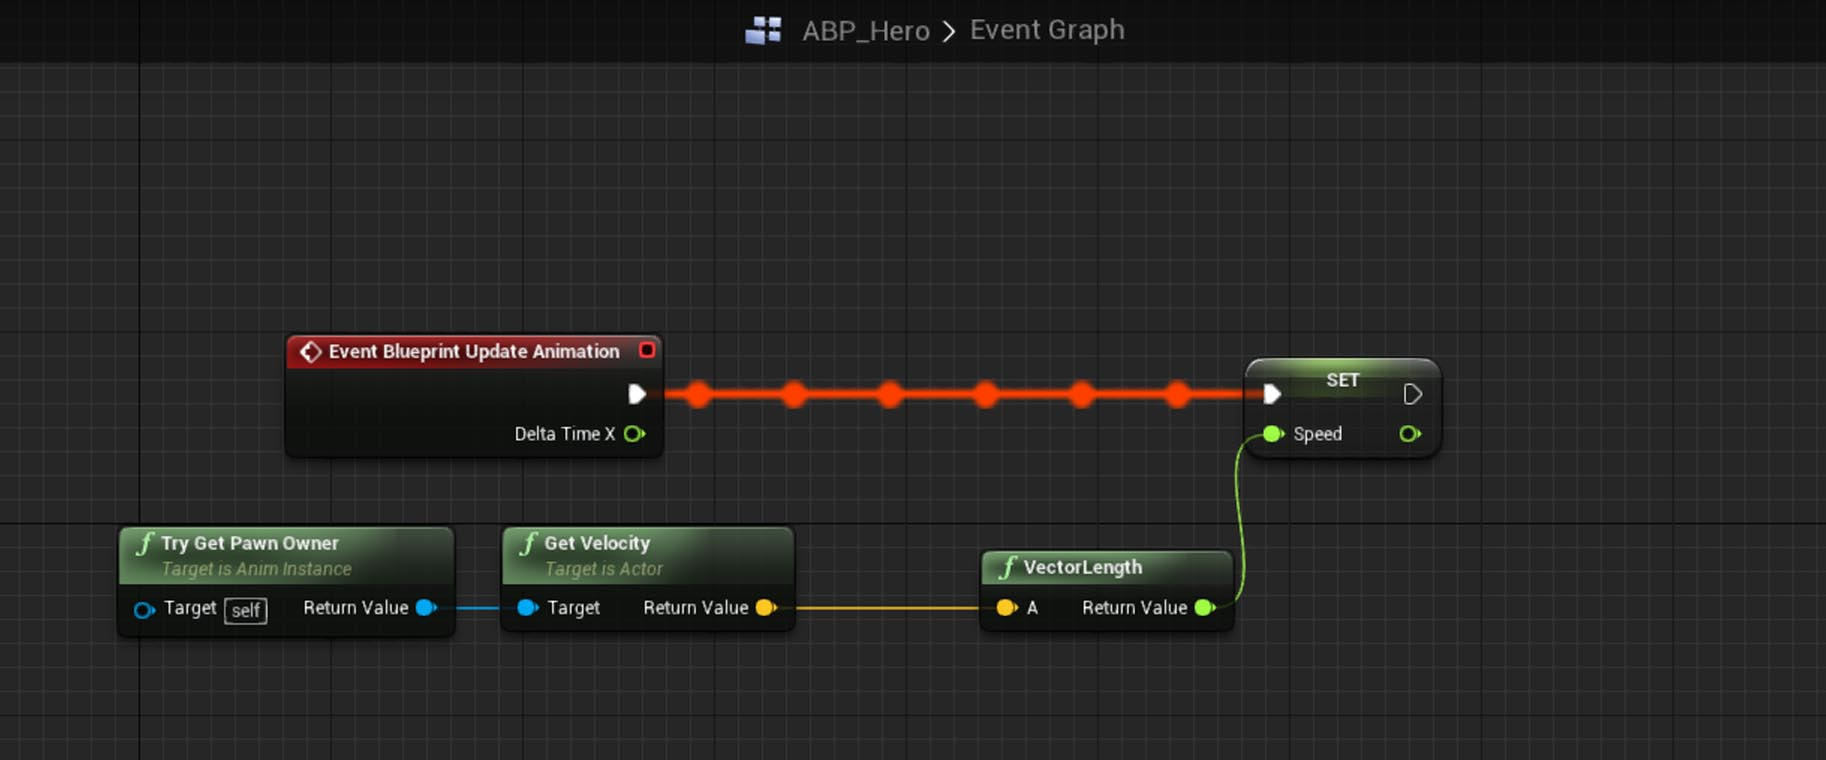
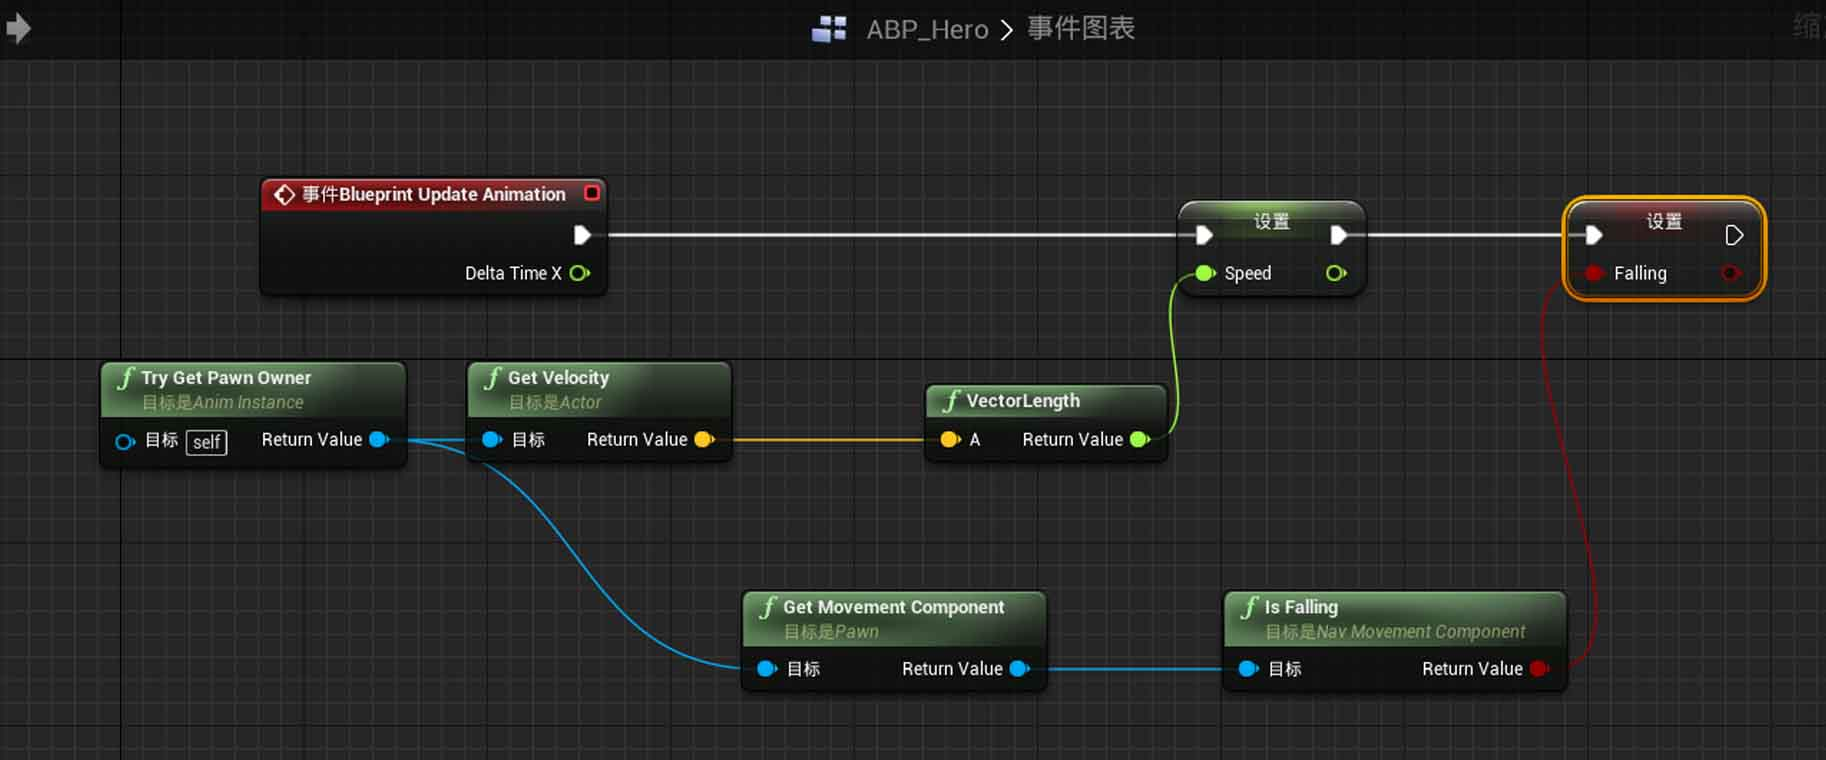
10.24.16.42

diff --git a/_posts/2017-10-20-角色控制(第三人称).md b/_posts/2017-10-20-角色控制(第三人称).md
@@ -21,15 +21,15 @@ tag: UE4
 
 Jump（跳跃）,Forword （前后移动）, Side （左右移动）, Lookup （视角垂直移动）, Trun（视角水平移动）
 ### 创建蓝图
-* 在Controller文件夹下，创建Character角色控制器，并命名为BP_Hero。
+*在Controller文件夹下，创建Character角色控制器，并命名为BP_Hero。
 
-* 将角色基本模型替换至Ｍesh中的Skeletal Mesh处，并调整角色模型比例大小及初始方向。添加SpringArm组件，并在组件下添加Camera,用于角色视角控制。
+*将角色基本模型替换至Ｍesh中的Skeletal Mesh处，并调整角色模型比例大小及初始方向。添加SpringArm组件，并在组件下添加Camera,用于角色视角控制。
 
-* 创建Play Controller，并命名为Control_Hero。
+*创建Play Controller，并命名为Control_Hero。
 
-* 创建Game Mode Base，并命名为GM_Hero，打开界面，将BP_Hero和Control_Hero添加其中。
+*创建Game Mode Base，并命名为GM_Hero，打开界面，将BP_Hero和Control_Hero添加其中。
 
-* 在世界设置中，将Gamemode Override改为GM_Hero。
+*在世界设置中，将Gamemode Override改为GM_Hero。
 
 ### 移动功能实现
 
@@ -69,13 +69,19 @@ Jump（跳跃）,Forword （前后移动）, Side （左右移动）, Lookup （
 
 点击进入Hero State，创建状态Run,点击进入状态Run，将BS_Hero_run接入Result,并创建变量Speed(float).
 
-在状态Run中的Event Graph中通过蓝图获取角色速度，并赋予给Speed，详细蓝图如下：
+在状态ABP_Hero中的Event Graph中通过蓝图获取Speed及Falling，详细蓝图如下：
 
 ![](/images/Pic/10.20/10.20_3.jpg)
 
 2.Jump效果实现
 
 在Hero State中添加跳跃流程，即详细参数如下：
+
+![](/images/Pic/10.20/10.20_4.jpg)
+
+添加各阶段跳跃动画，以Falling和Remaining为触发条件。
+
+在Control_Hero中，对移动操作通过Falling进行控制，使角色在空中时不会进行方向变化。
 
 
 
